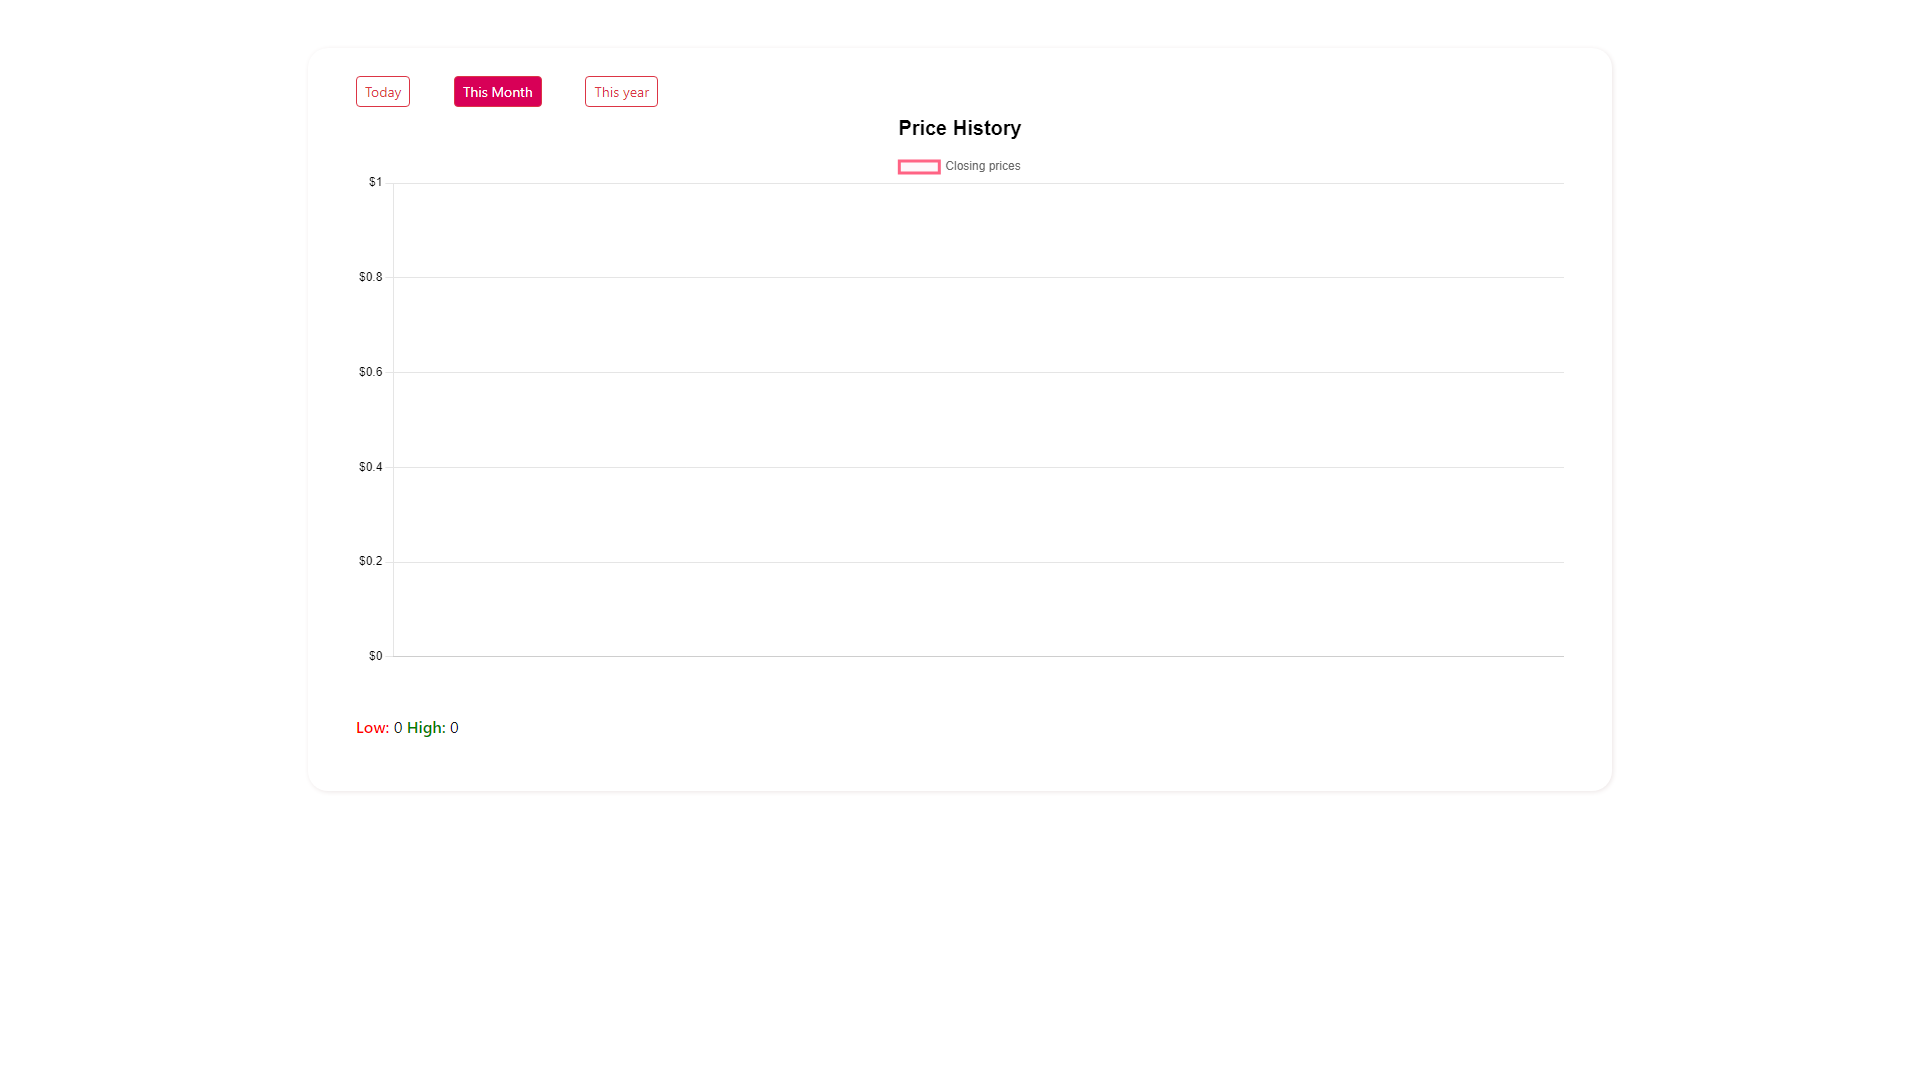
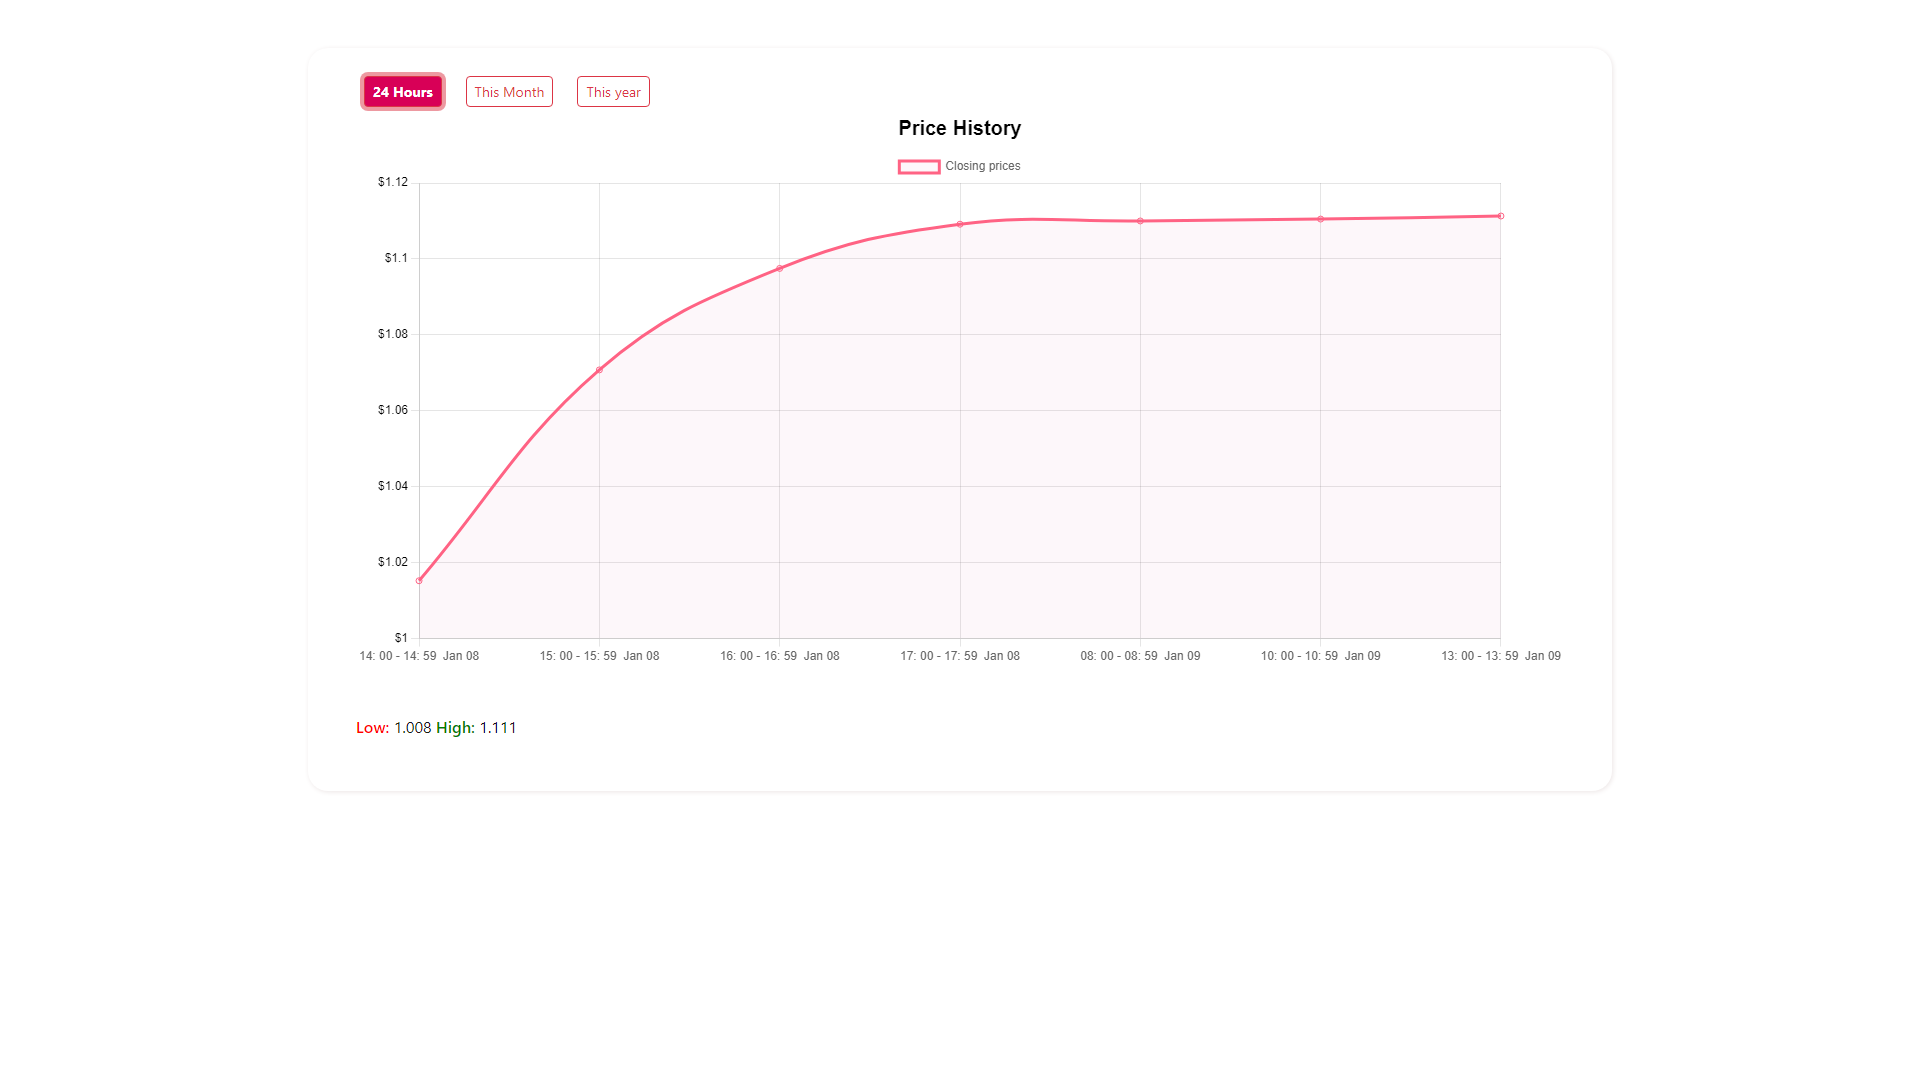
message:

diff --git a/backup.py b/backup.py
@@ -1,0 +1,231 @@
+import time
+import math
+import telegram.ext
+from moralis import evm_api
+from frozendict import frozendict
+import datetime
+from sqlitedict import SqliteDict
+from telegram import InlineKeyboardButton, InlineKeyboardMarkup, InputMediaPhoto
+from selenium import webdriver
+import os
+import requests
+from flask import Flask
+
+
+
+db = SqliteDict('./db.sqlite', autocommit=True)
+
+# take a snapshot of the chart
+# splinter: https://splinter.readthedocs.io/en/latest/install/driver_install.html
+
+
+TOKEN = "5848336987:AAGeAmMwEkS7i4Y_QbSTbSnNNF1rYfRnJWI"
[1 lines of base64/hex data omitted]
+ADDRESS = "0xEcdF61B4d2a4f84bAB59f9756ccF989C38bf99F5"
+
+LAST_SCRAPE = datetime.datetime.now()
+
+def get():
+    print()
+    params = {
+        "address": ADDRESS,
+        "function_name": "calculatePrice",
+        "chain": "bsc",
+    }
+
+    params2 = {
+        "address": ADDRESS,
+        "function_name": "totalSupply",
+        "chain": "bsc",
+    }
+    abi = {
+            "inputs": [],
+            "name": "calculatePrice",
+            "outputs": [
+                {
+                    "internalType": "uint256",
+                    "name": "",
+                    "type": "uint256"
+                }
+            ],
+            "stateMutability": "view",
+            "type": "function"
+        }
+
+    abi = {
+        "inputs": [],
+        "name": "calculatePrice",
+        "outputs": [
+            {
+                "internalType": "uint256",
+                "name": "",
+                "type": "uint256"
+            }
+        ],
+        "stateMutability": "view",
+        "type": "function"
+    }
+    abi2 = {
+            "inputs": [],
+            "name": "totalSupply",
+            "outputs": [
+                {
+                    "internalType": "uint256",
+                    "name": "",
+                    "type": "uint256"
+                }
+            ],
+            "stateMutability": "view",
+            "type": "function"
+        }
+    body = {
+        "abi": [frozendict(abi)],
+        "params": {},
+    }
+
+    body2 = {
+        "abi": [frozendict(abi2)],
+        "params": {},
+    }
+
+    price = evm_api.utils.run_contract_function(
+        api_key=api_key,
+        params=params,
+        body=body,
+    )
+    total_supply = evm_api.utils.run_contract_function(
+        api_key=api_key,
+        params=params2,
+        body=body2,
+    )
+
+    return (price, total_supply)
+
+def get_lp():
+    balance_params = {
+        "address": ADDRESS,
+        "chain": "bsc",
+    }
+
+    value = evm_api.token.get_wallet_token_balances(api_key=api_key, params=balance_params)
+    return int(value[0]['balance']) / 1000000000000000000
+
+
+#https://www.youtube.com/watch?v=LN1a0JoKlX8&ab_channel=RajsuthanOfficial
+def fetch_image():
+    user_agent = "Mozilla/5.0 (Windows NT 10.0; Win64; x64) AppleWebKit/537.36 (KHTML, like Gecko) Chrome/108.0.0.0 Safari/537.36 Edg/108.0.1462.54"
+
+    options = webdriver.ChromeOptions()
+    options.headless = True
+    options.add_argument(f'user-agent={user_agent}')
+    options.add_argument("--window-size=1920,1080")
+    options.add_argument('--ignore-certificate-errors')
+    options.add_argument('--allow-running-insecure-content')
+    options.add_argument("--disable-extensions")
+    options.add_argument("--proxy-server='direct://'")
+    options.add_argument("--proxy-bypass-list=*")
+    options.add_argument("--start-maximized")
+    options.add_argument('--disable-gpu')
+    options.add_argument('--disable-dev-shm-usage')
+    options.add_argument('--no-sandbox')
+    driver = webdriver.Chrome(executable_path="chromedriver.exe", options=options)
+    driver.get('https://2spice.link/chart')
+    time.sleep(5)
+    btn = driver.find_element_by_xpath('/html/body/div/div/div/div/div/div[1]/div/div[1]/button[1]')
+    btn.click()
+    time.sleep(5)
+    element = driver.find_element_by_css_selector('canvas')
+    driver.get_screenshot_as_file('image.png')
+    print('done')
+
+
+def start(update, context):
+    update.message.reply_text("Hello welcome to 2spice telegram bot")
+
+def help(update, context):
+    update.message.reply_text("""
+    The following commands are available
+    /start - 
+    /price -
+    /content -
+    /contact -
+    """)
+
+def set_price_var():
+    (wei_price, ) = get()
+    price_var = int(wei_price) / 1000000000000000000
+    db['price'] = price_var
+    db['last_time'] = datetime.datetime.now()
+
+def price(update, context):
+    last_time = db['last_time'] + datetime.timedelta(minutes=3)
+    last_image_fetch = db['last_time'] + datetime.timedelta(minutes=0)
+    price_var = 0
+    total_supply_val = 0
+    print(last_time)
+    print(datetime.datetime.now())
+    if last_image_fetch < datetime.datetime.now():
+        try:
+            fetch_image()
+        except:
+            print(Exception)
+    image = open('image.png', 'rb')
+    if last_time < datetime.datetime.now():
+        print('refetched')
+        (wei_price, total_supply) = get()
+        price_var = int(wei_price) / 1000000000000000000
+        total_supply_val = int(total_supply) / 1000000000000000000
+        backing_lp = get_lp()
+        db['price'] = price_var
+        db['last_time'] = datetime.datetime.now()
+        db['total_supply'] = total_supply_val
+        db['lp'] = backing_lp
+    else:
+        print('not')
+        price_var = db['price']
+        total_supply_val = db['total_supply']
+        backing_lp = db['lp']
+
+    keyboard = [
+        [InlineKeyboardButton("Buy",  url='https://2spice.link/swap', callback_data='https://2spice.link/swap')],
+        [InlineKeyboardButton("Chart", url='https://2spice.link/chart', callback_data='https://2spice.link/chart')]
+    ]
+
+    reply_markup = InlineKeyboardMarkup(keyboard)
+    message_text = f"Token: 2Spice(Spice)\nPrice: ${round(price_var, 2)}\nTotal Supply: {round(total_supply_val, 2)}\n "\
+                   f"MarketCap: ${round((price_var*total_supply_val), 0)}\n" \
+                   f"LP holdings: {round(backing_lp)} BUSD (${round(backing_lp)})"
+    update.message.reply_photo(image, caption=message_text, reply_markup=reply_markup)
+    # update.message.reply_text(message_text, reply_markup=reply_markup)
+
+
+
+def content(update, context):
+    update.message.reply_text("chart link: https://2spice.link/chart")
+
+
+def contact(update, context):
+    price = 0
+    total_supply = 0
+    update.message.reply_text(f"price: {price}\n total supply {total_supply}\n")
+
+
+def handleMessage(update, context):
+    update.message.reply_text(f"You said {update.message.text}")
+
+
+
+
+def main():
+    updater = telegram.ext.Updater(token=TOKEN, use_context=True)
+    disp = updater.dispatcher
+
+    disp.add_handler(telegram.ext.CommandHandler("start", start))
+    disp.add_handler(telegram.ext.CommandHandler("help", help))
+    disp.add_handler(telegram.ext.CommandHandler("price", price))
+    disp.add_handler(telegram.ext.CommandHandler("contact", contact))
+    disp.add_handler(telegram.ext.MessageHandler(telegram.ext.Filters.text, handleMessage))
+    updater.start_polling()
+    updater.idle()
+
+main()

diff --git a/app.py b/app.py
@@ -9,7 +9,7 @@ from telegram import InlineKeyboardButton, InlineKeyboardMarkup, InputMediaPhoto
 from selenium import webdriver
 import os
 import requests
-from flask import Flask
+from flask import Flask, request
 
 
 
@@ -18,7 +18,7 @@ db = SqliteDict('./db.sqlite', autocommit=True)
 # take a snapshot of the chart
 # splinter: https://splinter.readthedocs.io/en/latest/install/driver_install.html
 
-
+app = Flask(__name__)
 TOKEN = "5848336987:AAGeAmMwEkS7i4Y_QbSTbSnNNF1rYfRnJWI"
[1 lines of base64/hex data omitted]
 ADDRESS = "0xEcdF61B4d2a4f84bAB59f9756ccF989C38bf99F5"
@@ -128,10 +128,13 @@ def fetch_image():
     options.add_argument('--disable-gpu')
     options.add_argument('--disable-dev-shm-usage')
     options.add_argument('--no-sandbox')
-    driver = webdriver.Chrome(executable_path="chromedriver.exe")
+    driver = webdriver.Chrome(executable_path="chromedriver.exe", options=options)
     driver.get('https://2spice.link/chart')
-    element = driver.find_element_by_css_selector('canvas')
     time.sleep(5)
+    btn = driver.find_element_by_xpath('/html/body/div/div/div/div/div/div[1]/div/div[1]/button[1]')
+    btn.click()
+    time.sleep(5)
+    element = driver.find_element_by_css_selector('canvas')
     driver.get_screenshot_as_file('image.png')
     print('done')
 
@@ -156,7 +159,7 @@ def set_price_var():
 
 def price(update, context):
     last_time = db['last_time'] + datetime.timedelta(minutes=3)
-    last_image_fetch = db['last_time'] + datetime.timedelta(minutes=30)
+    last_image_fetch = db['last_time'] + datetime.timedelta(minutes=0)
     price_var = 0
     total_supply_val = 0
     print(last_time)
@@ -212,14 +215,30 @@ def handleMessage(update, context):
 
 
 
-
 updater = telegram.ext.Updater(token=TOKEN, use_context=True)
 disp = updater.dispatcher
 
-disp.add_handler(telegram.ext.CommandHandler("start", start))
-disp.add_handler(telegram.ext.CommandHandler("help", help))
-disp.add_handler(telegram.ext.CommandHandler("price", price))
-disp.add_handler(telegram.ext.CommandHandler("contact", contact))
-disp.add_handler(telegram.ext.MessageHandler(telegram.ext.Filters.text, handleMessage))
-updater.start_polling()
-updater.idle()
+def main():
+    disp.add_handler(telegram.ext.CommandHandler("start", start))
+    disp.add_handler(telegram.ext.CommandHandler("help", help))
+    disp.add_handler(telegram.ext.CommandHandler("price", price))
+    disp.add_handler(telegram.ext.CommandHandler("contact", contact))
+    disp.add_handler(telegram.ext.MessageHandler(telegram.ext.Filters.text, handleMessage))
+
+    updater.start_polling()
+    updater.idle()
+
+@app.route('/', methods=['POST'])
+def home():
+    main()
+
+
+
+@app.route('/sethook', methods=['POST', 'GET'])
+def sethook():
+    updater.start_webhook(f'http://127.0.0.1:5000/{TOKEN}')
+    return 'success'
+
+if __name__ == '__main__':
+    main()
+    app.run(debug=True)
